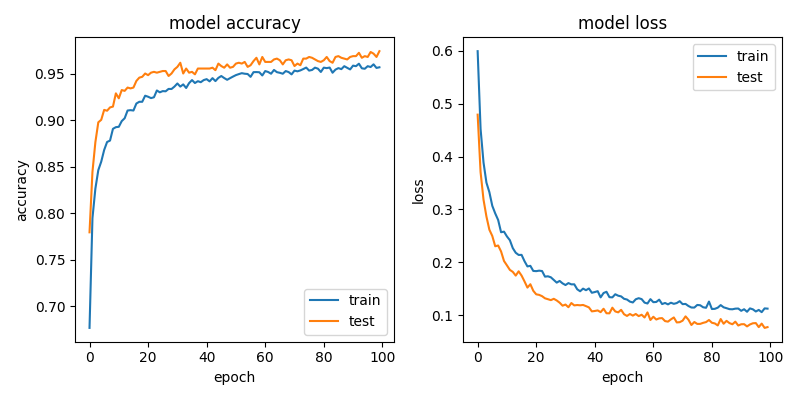
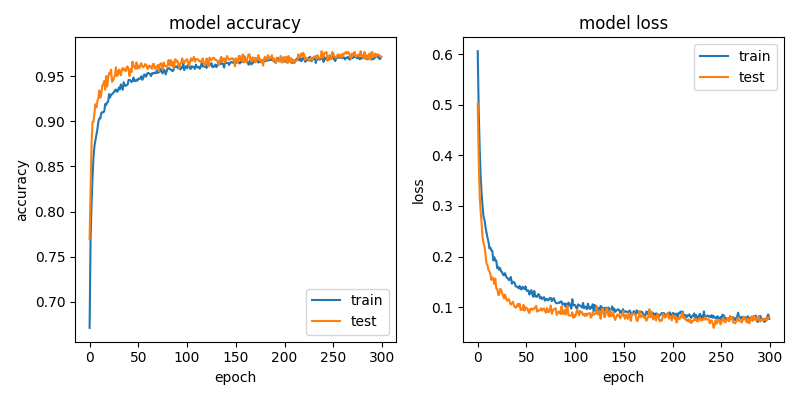
trained for 300 epochs

diff --git a/RNN/newModel.py b/RNN/newModel.py
@@ -46,7 +46,7 @@ model.compile(loss='binary_crossentropy', optimizer='adam', metrics=['accuracy']
 
 model.summary()
 
-history = model.fit(X_train, y_train, epochs=100, batch_size=32, verbose=2, validation_split=.1)
+history = model.fit(X_train, y_train, epochs=300, batch_size=32, verbose=2, validation_split=.1)
             
 _, acc = model.evaluate(X_test, y_test)
 ypred = model.predict(X_test)
